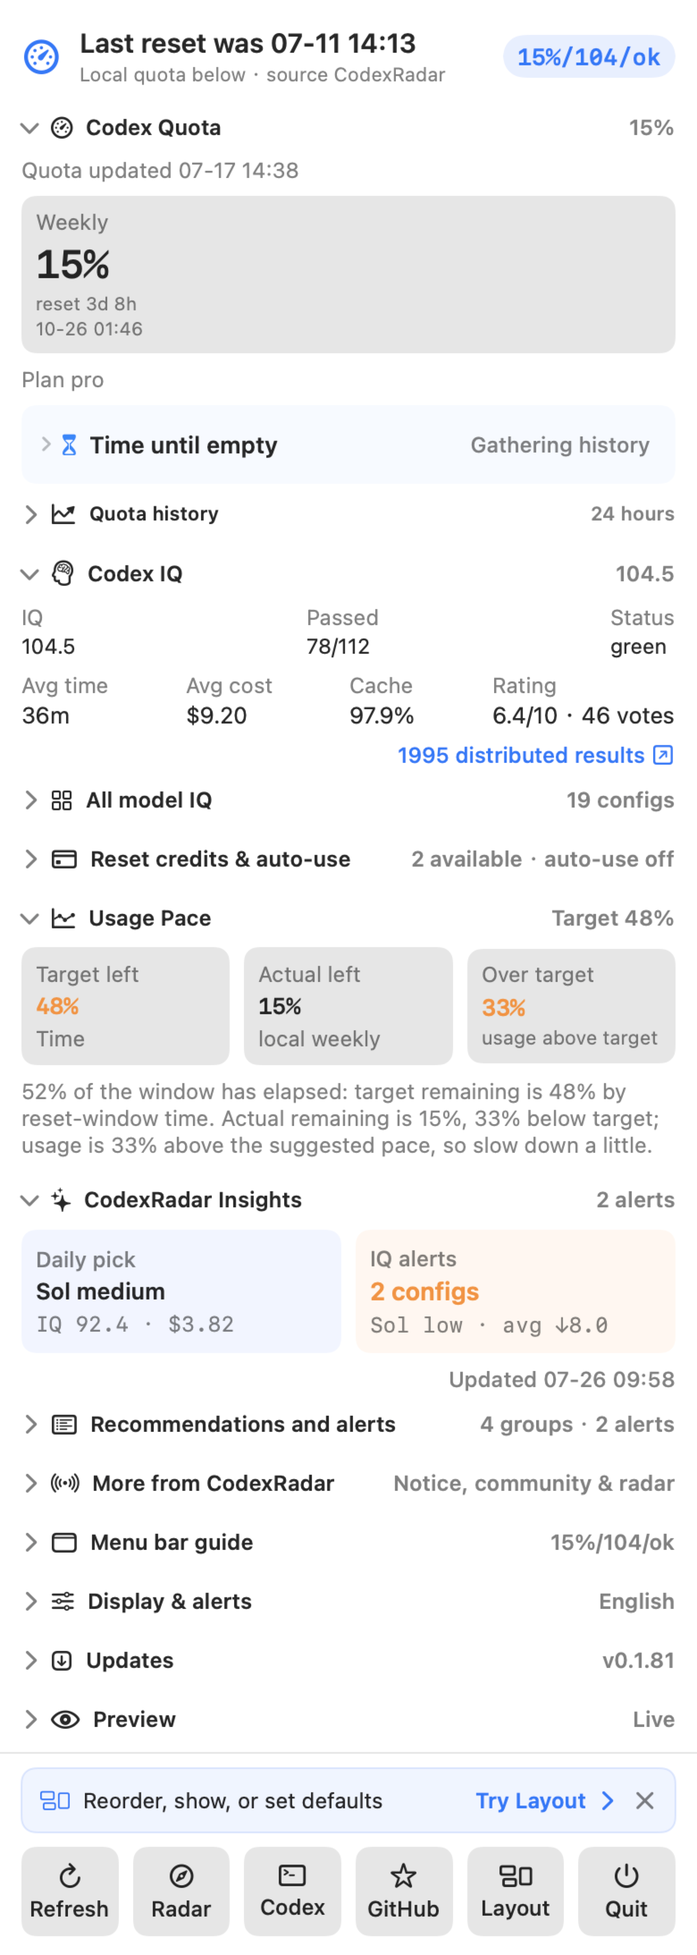
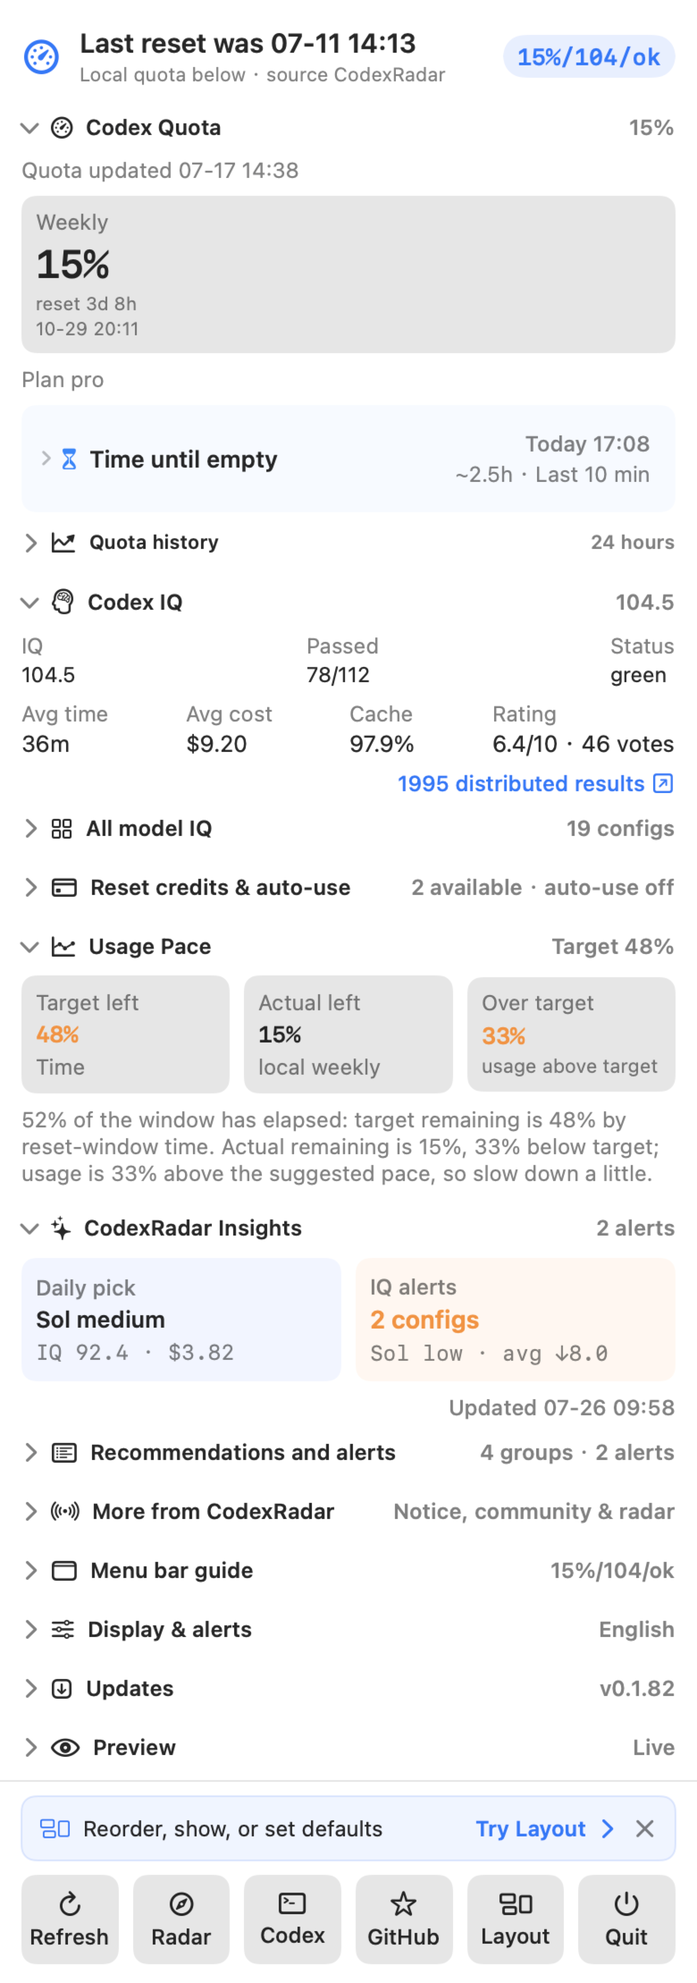
fix(quota): estimate from partial and sparse history
Interpolate missing readings within a quota cycle and use actual available durations. Keep reset and offline boundaries, expose effective lookbacks, and prepare v0.1.82.

Prompt-Id: 121

diff --git a/Tests/CodexRadarCoreTests/QuotaDepletionForecastTests.swift b/Tests/CodexRadarCoreTests/QuotaDepletionForecastTests.swift
@@ -46,11 +46,25 @@ final class QuotaDepletionForecastTests: XCTestCase {
         XCTAssertEqual(estimate.outcome, .depletes(at: now.addingTimeInterval(20 * 3600)))
     }
 
-    func testPartialWindowDoesNotPretendToBeAFullWindow() {
+    func testPartialWindowsUseActualElapsedTimeWithoutDilutingConsumption() throws {
         let current = sample(minutesAgo: 0, remaining: 40)
         let timeline = QuotaHistoryTimeline(samples: [sample(minutesAgo: 29, remaining: 43), current])
-        XCTAssertTrue(QuotaDepletionForecast.estimates(timeline: timeline, current: current)
-            .allSatisfy { $0.outcome == .insufficientData })
+        for estimate in QuotaDepletionForecast.estimates(timeline: timeline, current: current) {
+            XCTAssertEqual(try XCTUnwrap(estimate.hourlyConsumption), 3 * 60 / 29, accuracy: 0.00001)
+            XCTAssertEqual(estimate.observationDuration, 29 * 60)
+            guard case .depletes = estimate.outcome else { return XCTFail("Expected an estimate from partial history") }
+        }
+    }
+
+    func testTooLittleHistoryAndSingleReadingsWaitForAnotherPoll() {
+        let current = sample(minutesAgo: 0, remaining: 40)
+        for samples in [[current], [sample(minutesAgo: 0.5, remaining: 41), current]] {
+            XCTAssertTrue(QuotaDepletionForecast.estimates(timeline: .init(samples: samples), current: current)
+                .allSatisfy { $0.outcome == .insufficientData })
+        }
+        let samples = [sample(minutesAgo: 1, remaining: 40.1), current]
+        XCTAssertTrue(QuotaDepletionForecast.estimates(timeline: .init(samples: samples), current: current)
+            .allSatisfy { $0.hourlyConsumption != nil })
     }
 
     func testRefillAndResetBoundaryExcludeEarlierConsumption() {
@@ -64,7 +78,9 @@ final class QuotaDepletionForecastTests: XCTestCase {
         }
         let estimates = QuotaDepletionForecast.estimates(timeline: .init(samples: samples), current: current)
         XCTAssertEqual(estimates[0].hourlyConsumption, 6)
-        XCTAssertTrue(estimates.dropFirst().allSatisfy { $0.outcome == .insufficientData })
+        XCTAssertTrue(estimates.dropFirst().allSatisfy {
+            $0.hourlyConsumption == 6 && $0.observationDuration == 45 * 60
+        })
 
         let changedBoundary = history(current: 60).map { reading in
             QuotaHistorySample(timestamp: reading.timestamp, remainingPercent: reading.remainingPercent,
@@ -72,10 +88,12 @@ final class QuotaDepletionForecastTests: XCTestCase {
                     ? now.addingTimeInterval(86_400) : current.resetsAt)
         }
         let changed = QuotaDepletionForecast.estimates(timeline: .init(samples: changedBoundary), current: current)
-        XCTAssertTrue(changed.dropFirst().allSatisfy { $0.outcome == .insufficientData })
+        XCTAssertTrue(changed.dropFirst().allSatisfy {
+            $0.hourlyConsumption == 6 && $0.observationDuration == 45 * 60
+        })
     }
 
-    func testLongGapInvalidatesOnlyTheWindowsThatCrossIt() {
+    func testGapsWithinTheWindowAreInterpolated() {
         let current = sample(minutesAgo: 0, remaining: 40)
         let samples = history(current: 40).filter {
             let age = now.timeIntervalSince($0.timestamp) / 60
@@ -84,14 +102,44 @@ final class QuotaDepletionForecastTests: XCTestCase {
         let estimates = QuotaDepletionForecast.estimates(timeline: .init(samples: samples), current: current)
         XCTAssertEqual(estimates[0].hourlyConsumption, 6)
         XCTAssertEqual(estimates[1].hourlyConsumption, 6)
-        XCTAssertEqual(estimates[2].outcome, .insufficientData)
-        XCTAssertEqual(estimates[3].outcome, .insufficientData)
+        XCTAssertEqual(estimates[2].hourlyConsumption, 6)
+        XCTAssertEqual(estimates[3].hourlyConsumption, 6)
+    }
+
+    func testSparseReadingsInterpolateInsideMultiHourGaps() throws {
+        let samples = [sample(minutesAgo: 300, remaining: 80),
+                       sample(minutesAgo: 95, remaining: 55), sample(minutesAgo: 0, remaining: 50)]
+        let estimates = QuotaDepletionForecast.estimates(timeline: .init(samples: samples), current: samples.last!)
+        let expectedRates = [5 * 60.0 / 95, 5 * 60.0 / 95, (5 + 25 * 25.0 / 205) / 2, 6]
+        for (estimate, expected) in zip(estimates, expectedRates) {
+            XCTAssertEqual(try XCTUnwrap(estimate.hourlyConsumption), expected, accuracy: 0.00001)
+        }
+    }
+
+    func testOvernightGapsUseOnlyTheNewReadings() throws {
+        let current = sample(minutesAgo: 0, remaining: 40)
+        let samples = [sample(minutesAgo: 400, remaining: 80),
+                       sample(minutesAgo: 10, remaining: 41), current]
+        for estimate in QuotaDepletionForecast.estimates(timeline: .init(samples: samples), current: current) {
+            XCTAssertEqual(try XCTUnwrap(estimate.hourlyConsumption), 6, accuracy: 0.00001)
+            XCTAssertEqual(estimate.observationDuration, 10 * 60)
+        }
+    }
+
+    func testAnUnobservedResetCannotBeBridged() {
+        let reset = now.addingTimeInterval(-15 * 60)
+        let samples = [sample(minutesAgo: 60, remaining: 90, reset: reset),
+                       sample(minutesAgo: 10, remaining: 41), sample(minutesAgo: 0, remaining: 40)]
+        let estimates = QuotaDepletionForecast.estimates(timeline: .init(samples: samples), current: samples.last!)
+        XCTAssertTrue(estimates.allSatisfy { $0.hourlyConsumption == 6 && $0.observationDuration == 600 })
     }
 
     func testZeroConsumptionEmptyQuotaAndResetBeforeDepletionAreDistinct() {
         let idle = history(current: 50, rate: 0)
-        XCTAssertTrue(QuotaDepletionForecast.estimates(timeline: .init(samples: idle), current: idle.last!)
-            .allSatisfy { $0.outcome == .noConsumption && $0.hourlyConsumption == 0 })
+        for readings in [idle, [sample(minutesAgo: 10, remaining: 50), idle.last!]] {
+            XCTAssertTrue(QuotaDepletionForecast.estimates(timeline: .init(samples: readings), current: readings.last!)
+                .allSatisfy { $0.outcome == .noConsumption && $0.hourlyConsumption == 0 })
+        }
         XCTAssertTrue(QuotaDepletionForecast.estimates(timeline: .init(), current: sample(minutesAgo: 0, remaining: 0))
             .allSatisfy { $0.outcome == .alreadyDepleted })
         let reset = now.addingTimeInterval(3600)

diff --git a/Sources/CodexRadarCore/QuotaDepletionForecast.swift b/Sources/CodexRadarCore/QuotaDepletionForecast.swift
@@ -1,6 +1,6 @@
 import Foundation
 
-/// Linear projections use complete, continuous windows within the current quota cycle.
+/// Linear projections interpolate gaps and use available history within the current quota cycle.
 public struct QuotaDepletionForecast: Equatable {
     public enum Window: Int, CaseIterable, Identifiable {
         case minutes30 = 30
@@ -25,6 +25,8 @@ public struct QuotaDepletionForecast: Equatable {
     /// Percentage points of the total quota consumed per hour.
     public let hourlyConsumption: Double?
     public let outcome: Outcome
+    /// Elapsed history used for the rate, capped at the requested window.
+    public let observationDuration: TimeInterval
 
     public static func estimates(
         timeline: QuotaHistoryTimeline,
@@ -35,20 +37,42 @@ public struct QuotaDepletionForecast: Equatable {
             $0.timestamp >= cutoff && $0.timestamp < current.timestamp
         }
         recent.append(current)
+        // A reset, refill or overnight gap starts a new usable segment.
+        if recent.count > 1 {
+            for index in (1..<recent.count).reversed() {
+                let previous = recent[index - 1]
+                let next = recent[index]
+                let resetMoved = previous.resetsAt.flatMap { old in
+                    next.resetsAt.map { abs($0.timeIntervalSince(old)) >= 30 * 60 }
+                } ?? false
+                let resetPassed = previous.resetsAt.map {
+                    $0 > previous.timestamp && $0 <= next.timestamp
+                } ?? false
+                if next.timestamp.timeIntervalSince(previous.timestamp) > maximumGap
+                    || next.remainingPercent > previous.remainingPercent
+                    || resetMoved || resetPassed {
+                    recent = Array(recent[index...])
+                    break
+                }
+            }
+        }
         return Window.allCases.map { window in
             estimate(window: window, samples: recent, current: current)
         }
     }
 
-    private static let maximumGap = QuotaHistoryRange.hours24.continuityGap
+    private static let maximumGap = Window.hours5.duration
+    private static let minimumObservationDuration: TimeInterval = 60
 
     private static func estimate(
         window: Window,
         samples: [QuotaHistorySample],
         current: QuotaHistorySample
     ) -> Self {
+        var observationDuration: TimeInterval = 0
         func result(_ outcome: Outcome, rate: Double? = nil) -> Self {
-            Self(window: window, hourlyConsumption: rate, outcome: outcome)
+            Self(window: window, hourlyConsumption: rate, outcome: outcome,
+                 observationDuration: observationDuration)
         }
         guard QuotaHistoryTimeline.isValid(current) else { return result(.insufficientData) }
         if current.remainingPercent == 0 { return result(.alreadyDepleted) }
@@ -56,25 +80,20 @@ public struct QuotaDepletionForecast: Equatable {
             return result(.insufficientData)
         }
         let start = current.timestamp.addingTimeInterval(-window.duration)
-        guard let index = samples.lastIndex(where: { $0.timestamp <= start }),
-              index + 1 < samples.count else { return result(.insufficientData) }
-        let segment = samples[index...]
-        for (previous, next) in zip(segment, segment.dropFirst()) {
-            let resetMoved = previous.resetsAt.flatMap { old in
-                next.resetsAt.map { abs($0.timeIntervalSince(old)) >= 30 * 60 }
-            } ?? false
-            guard next.timestamp.timeIntervalSince(previous.timestamp) <= maximumGap,
-                  next.remainingPercent <= previous.remainingPercent,
-                  !resetMoved else { return result(.insufficientData) }
-        }
+        guard samples.count >= 2 else { return result(.insufficientData) }
+        let index = samples.lastIndex(where: { $0.timestamp <= start }) ?? 0
         let before = samples[index]
+        let effectiveStart = max(start, before.timestamp)
+        observationDuration = current.timestamp.timeIntervalSince(effectiveStart)
+        guard observationDuration >= minimumObservationDuration,
+              index + 1 < samples.count else { return result(.insufficientData) }
         let after = samples[index + 1]
-        let fraction = start.timeIntervalSince(before.timestamp)
+        let fraction = effectiveStart.timeIntervalSince(before.timestamp)
             / after.timestamp.timeIntervalSince(before.timestamp)
         let remainingAtStart = before.remainingPercent
             + fraction * (after.remainingPercent - before.remainingPercent)
         let consumed = max(0, remainingAtStart - current.remainingPercent)
-        let rate = consumed * 3600 / window.duration
+        let rate = consumed * 3600 / observationDuration
         guard rate > 0 else { return result(.noConsumption, rate: 0) }
         let duration = current.remainingPercent / rate * 3600
         if let reset = current.resetsAt,

diff --git a/Sources/CodexRadarSentinel/QuotaDepletionForecastView.swift b/Sources/CodexRadarSentinel/QuotaDepletionForecastView.swift
@@ -40,6 +40,8 @@ struct QuotaDepletionForecastView: View {
                     let forecast = estimates.first { $0.window == window }
                     HStack(spacing: 8) {
                         Text(windowLabel(window))
+                            .lineLimit(1)
+                            .minimumScaleFactor(0.9)
                             .frame(width: metrics.label * 5.5, alignment: .leading)
                         Text(rateLabel(forecast?.hourlyConsumption))
                             .monospacedDigit()
@@ -52,11 +54,13 @@ struct QuotaDepletionForecastView: View {
                     }
                     .font(.system(size: metrics.label))
                     .accessibilityElement(children: .combine)
+                    .help(observationLabel(forecast))
+                    .accessibilityHint(observationLabel(forecast))
                 }
 
                 Text(text(
-                    "按相同速率估算；重置后重新计算。",
-                    "Assumes unchanged usage; restarts after a reset."
+                    "按现有记录近似估算；重置后重新计算。",
+                    "Uses available history; assumes unchanged usage."
                 ))
                 .font(.system(size: metrics.caption))
                 .foregroundStyle(.secondary)
@@ -75,10 +79,10 @@ struct QuotaDepletionForecastView: View {
                         .font(.system(size: metrics.caption, weight: .medium))
                     if !isExpanded, let preferred = preferred(in: estimates) {
                         if case .depletes(let date) = preferred.outcome {
-                            Text("\(durationLabel(until: date)) · \(windowLabel(preferred.window))")
+                            Text("\(durationLabel(until: date)) · \(basisLabel(preferred))")
                                 .font(.system(size: metrics.caption))
                         } else {
-                            Text(windowLabel(preferred.window))
+                            Text(basisLabel(preferred))
                                 .font(.system(size: metrics.caption))
                         }
                     }
@@ -96,6 +100,25 @@ struct QuotaDepletionForecastView: View {
             return text(current == nil ? "暂无法估算" : "记录不足", current == nil ? "Unavailable" : "Gathering history")
         }
         return outcomeLabel(preferred.outcome)
+    }
+
+    private func basisLabel(_ forecast: QuotaDepletionForecast) -> String {
+        if forecast.observationDuration < forecast.window.duration {
+            let minutes = max(1, Int(forecast.observationDuration / 60))
+            return text("近 \(minutes) 分钟", "Last \(minutes) min")
+        }
+        return windowLabel(forecast.window)
+    }
+
+    private func observationLabel(_ forecast: QuotaDepletionForecast?) -> String {
+        guard let forecast, forecast.observationDuration > 0 else {
+            return text("按当前额度与已有记录估算。", "Based on current quota and available history.")
+        }
+        let minutes = max(1, Int(forecast.observationDuration / 60))
+        return text(
+            "参考近 \(minutes) 分钟的已有记录，缺口按相邻记录插值；假设后续速率不变。",
+            "Uses available readings over \(minutes) minutes, interpolating gaps and assuming unchanged usage."
+        )
     }
 
     private func resultLabel(_ forecast: QuotaDepletionForecast?) -> Text {

diff --git a/Sources/CodexRadarSentinel/SentinelStore.swift b/Sources/CodexRadarSentinel/SentinelStore.swift
@@ -1508,8 +1508,16 @@ final class SentinelStore: NSObject, ObservableObject {
         documentationState.rateLimits = Self.documentationRateLimits()
         if let forecastMode = ProcessInfo.processInfo.environment["CODEX_RADAR_VISUAL_TEST_FORECAST"],
            let weekly = documentationState.rateLimits?.weeklyBucket {
-            let minutes = forecastMode == "insufficient" ? 10 : 305
-            quotaHistory = QuotaHistoryTimeline(samples: stride(from: minutes, through: 0, by: -5).map { offset in
+            let minutes: Int
+            switch forecastMode {
+            case "insufficient": minutes = 0
+            case "partial": minutes = 10
+            default: minutes = 305
+            }
+            let offsets = stride(from: minutes, through: 0, by: -5).filter { offset in
+                forecastMode != "gapped" || [300, 95, 30, 0].contains(offset)
+            }
+            quotaHistory = QuotaHistoryTimeline(samples: offsets.map { offset in
                 let hours = Double(offset) / 60
                 let consumed = forecastMode == "idle" ? 0
                     : min(hours, 0.5) * 6

diff --git a/Sources/CodexRadarCore/AppConstants.swift b/Sources/CodexRadarCore/AppConstants.swift
@@ -4,7 +4,7 @@ public enum AppConstants {
     public static let appName = "Codex Radar Sentinel"
     public static let clientName = "codex-radar-sentinel"
     public static let bundleIdentifier = "com.codexradar.sentinel"
-    public static let appVersion = "0.1.81"
+    public static let appVersion = "0.1.82"
 
     public static let codexLimitID = "codex"
     public static let weeklyWindowMinutes = 10_080.0

diff --git a/README.en.md b/README.en.md
@@ -49,6 +49,12 @@ Download the macOS package and SHA256 file, verify the package, install the app 
 
 ## What's New
 
+### v0.1.82: Forecasts from incomplete history
+
+- Estimate depletion from available history even when a full window or intermediate readings are missing.
+- Interpolate between readings while keeping reset, refill, and long offline boundaries.
+- Show the actual lookback in the collapsed summary and retain compact single-line rows.
+
 ### v0.1.81: Quota depletion forecasts
 
 - See the projected depletion time and remaining duration below quota cards, preferring usage from the last hour.
@@ -62,14 +68,10 @@ Download the macOS package and SHA256 file, verify the package, install the app 
 - Remove repeated Saved labels and transient connection notices; keep the quota update time in quota details.
 - Retain guidance when no data is available, sign-in is required, or another error needs attention.
 
-### v0.1.79: Support the latest Fast and Quota Radar formats
-
-- Support Fast Radar's Standard, Fast, and Ultrafast tier table, restoring model metrics and Standard-to-Fast change summaries.
-- Support the Quota Radar schema 3 plan matrix with plan prices, per-model weekly quotas, and API-equivalent values, clearly identified as approximate public references rather than local remaining quota.
-- Retain compatibility with both radars' previous page or data formats.
-
 <details>
 <summary><strong>Earlier releases</strong></summary>
+
+- **v0.1.79**: Supports Fast Radar tier tables and the Quota Radar schema 3 plan matrix while retaining older formats.
 
 - **v0.1.78**: Supports Fast Radar definition-list methodology with complete conditions and boundaries, and improves release synchronization waits.
 
@@ -154,7 +156,7 @@ The app records real points only after local weekly quota loads successfully. Wh
 
 History starts accumulating when this version first runs; earlier values are neither fabricated nor backfilled. Up to 31 days remain on the Mac. `Observed use` totals only balance decreases seen in the selected range and is not a replacement for server-side billing or usage analytics.
 
-`Time until empty` appears below the quota cards, collapsed by default with a projected depletion time and remaining duration that prefer the last hour and falls back to another fully recorded window. Expand it to compare hourly consumption, depletion times, and remaining durations in one row per window over the last 30 minutes, 1 hour, 2 hours, and 5 hours. Estimates use continuous local records without crossing quota refills, resets, or gaps longer than 20 minutes. Incomplete history, no recent consumption, and a reset arriving first have separate states. Projections assume unchanged usage and are only a guide. Use `Layout` to hide the section or expand it by default.
+`Time until empty` appears below quota cards, collapsed by default and preferring the last hour, with both the projected depletion time and remaining duration. Expand it to compare the last 30 minutes, 1 hour, 2 hours, and 5 hours in one row per window. Shorter histories use their actual elapsed duration, and gaps are interpolated between available readings without modifying stored history. Estimates begin with two valid readings at least one minute apart and never bridge refills, resets, or gaps longer than five hours. Hover over a row for the actual lookback duration. No recent usage and resets arriving first have separate states. Results assume unchanged usage and are only a guide. Use `Layout` to hide the section or expand it by default.
 
 ### Usage pacing
 

diff --git a/README.md b/README.md
@@ -49,6 +49,12 @@ https://github.com/WineChord/codex-radar/releases/latest
 
 ## 最新变化
 
+### v0.1.82：缺失记录也能预估
+
+- 用尽时间预估允许记录缺口，并在历史不足整段时先按已有记录计算。
+- 缺口按相邻记录插值，继续保留重置、额度补充与长时间离线的边界。
+- 收起摘要显示实际参考时长，每行仍保持紧凑显示。
+
 ### v0.1.81：额度用尽时间预估
 
 - 在额度卡片下方直接查看预计用尽时刻与剩余时长，默认优先参考最近 1 小时用量。
@@ -62,14 +68,10 @@ https://github.com/WineChord/codex-radar/releases/latest
 - 移除菜单栏和面板中重复的缓存标记与临时连接提示，额度更新时间保留在额度详情中。
 - 没有可用数据、需要登录或发生其他需处理的错误时，仍显示对应提示。
 
-### v0.1.79：兼容最新 Fast 与额度雷达
-
-- 兼容 Fast 雷达的 Standard、Fast、Ultrafast 三档表格，恢复模型指标与 Standard 到 Fast 的变化摘要。
-- 兼容额度雷达 schema 3 套餐矩阵，展示套餐价格、各模型周额度和 API 等价值，并明确它们是公开近似参考而非本机剩余额度。
-- 两项雷达均继续支持旧版页面或数据格式。
-
 <details>
 <summary><strong>更早版本</strong></summary>
+
+- **v0.1.79**：兼容 Fast 雷达三档表格与额度雷达 schema 3 套餐矩阵，并保留旧格式支持。
 
 - **v0.1.78**：兼容 Fast 雷达定义列表方法说明，保留完整测试口径与边界，并改善发布同步等待。
 
@@ -154,7 +156,7 @@ https://github.com/WineChord/codex-radar/releases/latest
 
 历史从启用该版本后开始积累，不会伪造或倒推此前数据；本机最多保留 31 天。区间底部的“观测消耗”只汇总实际观测到的余额下降，不能替代服务端用量账单。
 
-`用尽时间预估` 位于额度卡片下方，默认收起，优先显示按最近 1 小时用量估算的用尽时刻与剩余时间（记录不足时采用其他完整时段）；展开可对比最近 30 分钟、1 小时、2 小时和 5 小时的每小时消耗、预计用尽时刻及剩余时长，每个时段一行。预估使用本机连续记录，不跨越额度补充、重置或超过 20 分钟的断档；记录不足、近期未消耗或重置会先到时会单独说明。它假设后续保持相同速率，仅供参考；可在 `布局` 中隐藏或设为默认展开。
+`用尽时间预估` 位于额度卡片下方，默认收起并优先参考最近 1 小时，直接显示用尽时刻与剩余时间；展开可按一行一个时段对比最近 30 分钟、1 小时、2 小时和 5 小时的消耗速率与预估。记录不满整个时段时，先按已有记录的实际时长计算；中间缺口按相邻记录插值，不会修改或补写历史。只需两次相隔至少 1 分钟的有效记录即可开始，不跨越额度补充、重置或超过 5 小时的断档。将鼠标移到每行可查看实际参考时长；近期未消耗或重置会先到时会单独说明。结果假设后续速率不变，仅供参考；可在 `布局` 中隐藏或设为默认展开。
 
 ### 用量节奏
 

diff --git a/releases/v0.1.82.md b/releases/v0.1.82.md
@@ -1,0 +1,20 @@
+# v0.1.82
+
+## 更新内容
+
+- 用尽时间预估允许记录缺口；历史尚未覆盖整个时段时，先按已有记录的实际时长计算。
+- 相邻记录之间采用线性插值，不修改或补写历史；两次相隔至少 1 分钟的有效记录即可开始估算。
+- 不跨越额度补充、重置或超过 5 小时的断档，近期未消耗与重置会先到时仍单独说明。
+- 保留紧凑的单行对比，收起时显示实际参考时长，每行也可悬停查看计算依据。
+
+## Changes
+
+- Estimate depletion from available history when full windows or intermediate readings are missing, using the actual elapsed duration.
+- Interpolate between readings without modifying stored history. Estimates begin with two valid readings at least one minute apart.
+- Keep refill, reset, and offline gaps longer than five hours as boundaries, with separate idle and reset-first states.
+- Keep compact single-line comparisons, show the actual lookback when collapsed, and expose the calculation basis on hover.
+
+## 下载 / Downloads
+
+适用于 Apple 芯片与 Intel Mac。安装包沿用临时签名，未经 Apple 公证。
+For Apple silicon and Intel Macs. Ad-hoc signed; not Apple notarized.
